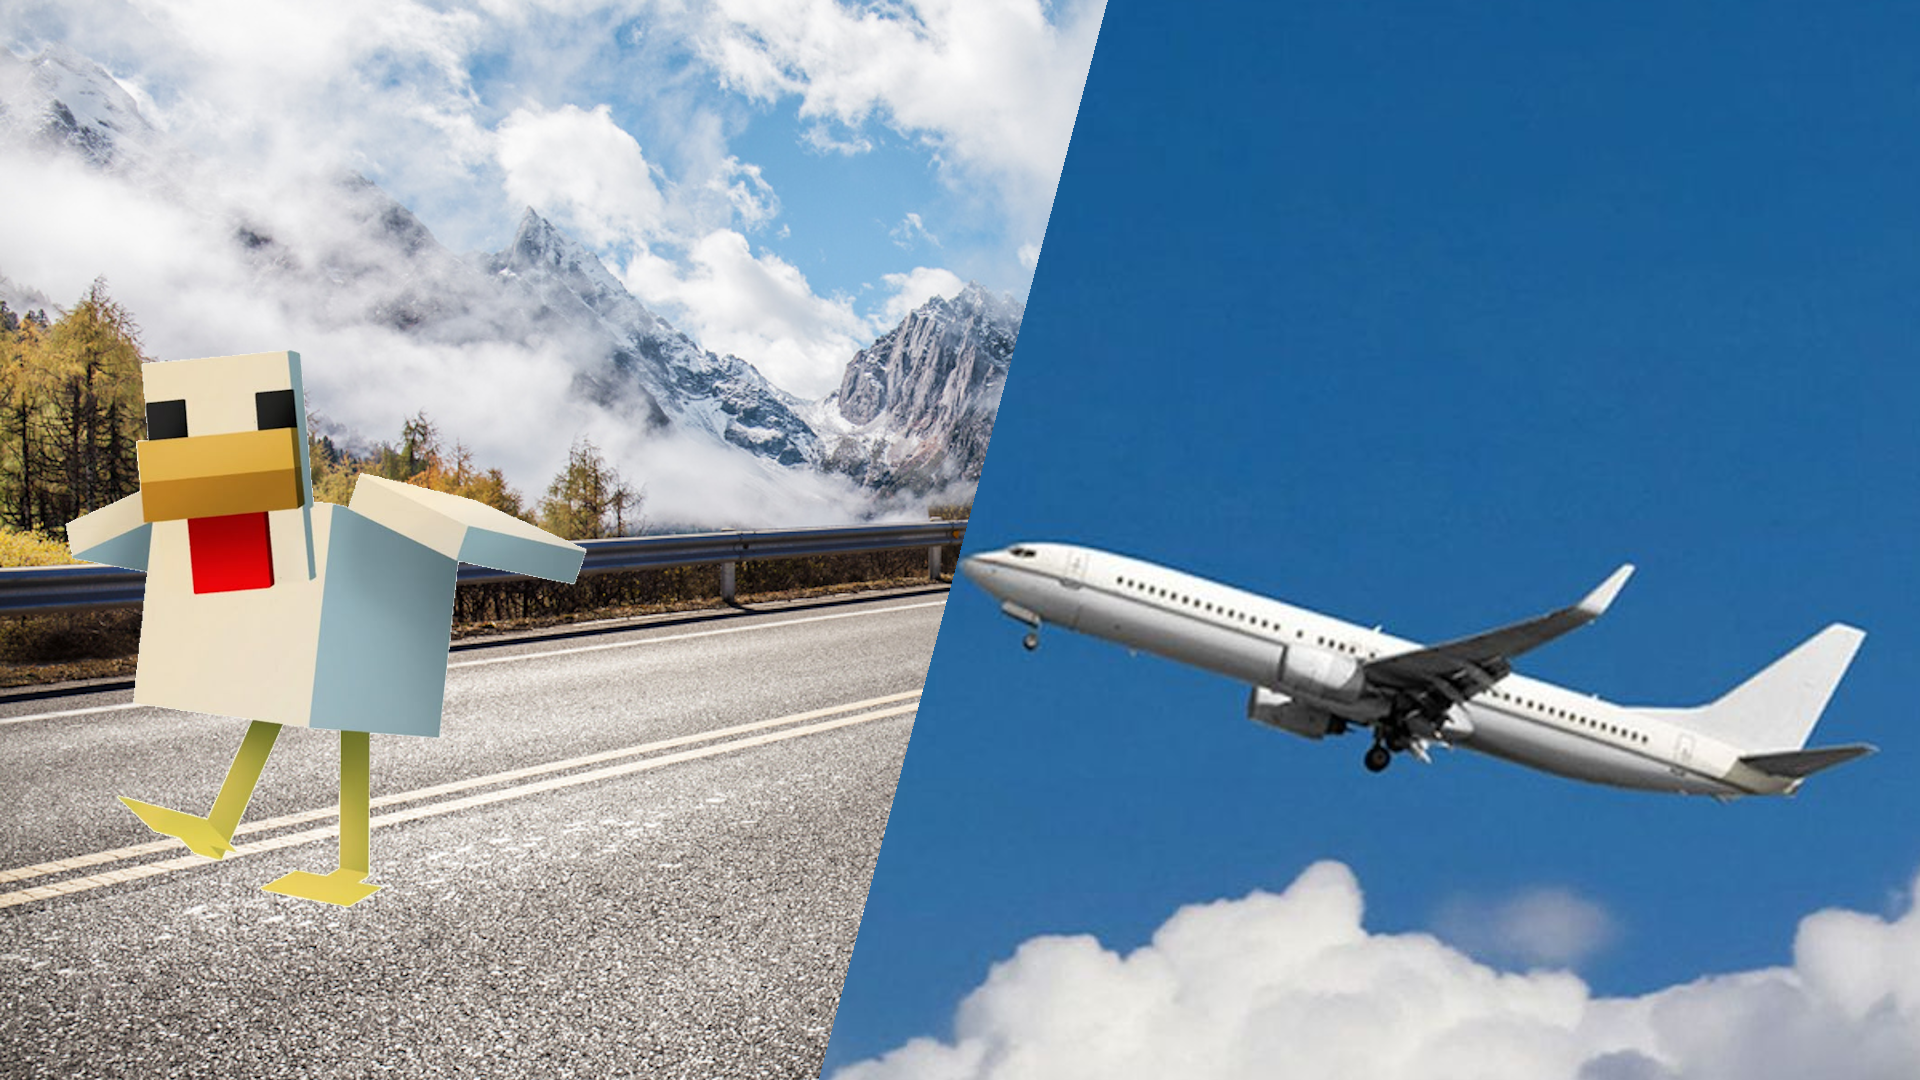
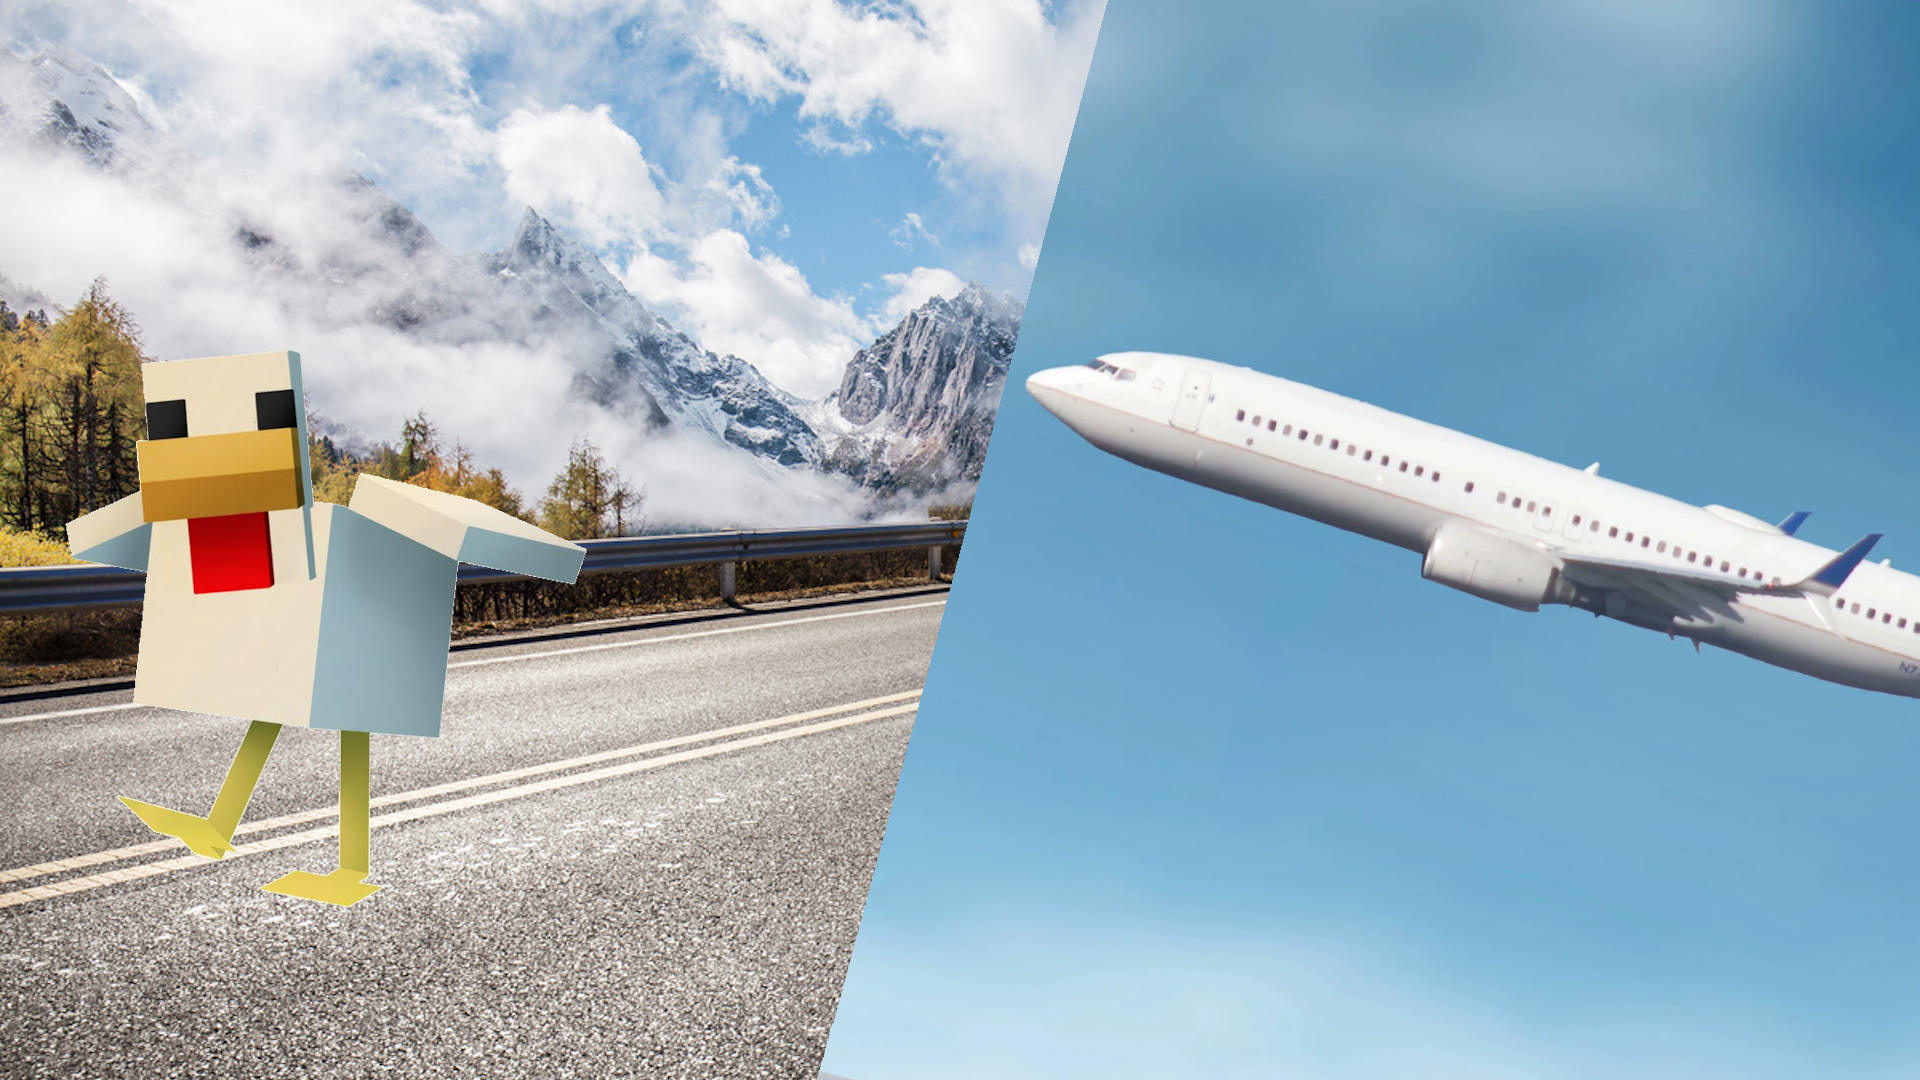
aviator+ kisebb javitasok a tobbiben

diff --git a/FrontEnd/Games/src/components/Aviator/Aviator.jsx b/FrontEnd/Games/src/components/Aviator/Aviator.jsx
@@ -1,124 +1,169 @@
 import React, { useState, useEffect } from 'react';
-import { Button, Box, Typography } from "@mui/material"
-import './Aviator.module.css';
 import Navbar from '../Navbar/Navbar';
-
 
 const Aviator = () => {
     const [multiplier, setMultiplier] = useState(1.00);
     const [isFlying, setIsFlying] = useState(false);
-    const [statusMessage, setStatusMessage] = useState("There is no active game!");
+    const [statusMessage, setStatusMessage] = useState("");
+    const [positions, setPositions] = useState([]);
+    const [isVisible, setIsVisible] = useState(true);
+    const [bet, setBet] = useState(10);
+    const [availableCredits, setAvailableCredits] = useState(1000); 
+    const [gameStarted, setGameStarted] = useState(false);
 
     useEffect(() => {
         let flightInterval;
         if (isFlying) {
-            setStatusMessage("Game started!");
+            setStatusMessage("We wish you a successful flight!");
+            let x = 0, y = 0, m = 1.0;
+            let startTime = Date.now(); 
+
             flightInterval = setInterval(() => {
-                setMultiplier(prev => {
-                    const newMultiplier = parseFloat((prev + 0.01).toFixed(2));
-                    return newMultiplier;
-                });
+                m = parseFloat((m * 1.01).toFixed(4));
+                let elapsedTime = Date.now() - startTime;
+                let t = elapsedTime / 1000; 
+                x = x * 1.00001 + 1; 
+                y = Math.max(0, 0.5 * Math.pow(t, 2)); 
+                setMultiplier(m);
+                setPositions((prev) => [...prev, { x, y }]);
+
+                if (y > 400) {
+                    clearInterval(flightInterval);
+                    setIsFlying(false);
+                    setGameStarted(false);
+                    setStatusMessage("You won!");
+                }
             }, 100);
 
-            const randomFlightDuration = Math.floor(Math.random() * (120000 - 1000 + 1)) + 1000;
-            console.log(randomFlightDuration)
+            const randomFlightDuration = Math.floor(Math.random() * (12000 - 0 + 1)) + 0;
 
             setTimeout(() => {
                 clearInterval(flightInterval);
                 setIsFlying(false);
-                setStatusMessage("The plane crashed!");
+                setGameStarted(false);
+                setStatusMessage("The plane crashed! You lost your bet.");
             }, randomFlightDuration);  
+        } else {
+            setPositions([]);
         }
+
         return () => clearInterval(flightInterval);
     }, [isFlying]);
 
     const placeBet = () => {
-        if (!isFlying) {
-            setIsFlying(true);
+        if (bet <= 0 || bet > availableCredits) {
+            setStatusMessage("Invalid bet amount!");
+            return;
         }
+
+        setAvailableCredits(prev => prev - bet);
+        setIsFlying(true);
+        setIsVisible(true);
+        setGameStarted(true);
     };
 
     const cashOut = () => {
         if (isFlying) {
+            const winnings =Math.floor(bet * multiplier) ;
+            setAvailableCredits(prev => prev + winnings);
             setIsFlying(false);
-            setStatusMessage(`Cash out: ${multiplier}x!`);
-            setMultiplier(1.00)
+            setGameStarted(false);
+            setStatusMessage(`Cashed out: ${multiplier.toFixed(2)}x, You won ${winnings.toFixed(2)} credits!`);
+            setMultiplier(1.00);
+            setPositions([]);
         } else {
             setStatusMessage("There is no active game!");
         }
     };
 
+    const pathData = positions.map((pos, index) => `${index === 0 ? 'M' : 'L'} ${pos.x} ${400 - pos.y}`).join(' ');
+    const rotation = Math.min(60, multiplier * 10);
+
     return (
         <>
             <Navbar />
-            <Box sx={{ textAlign: 'center', padding: 2 }}>
-                <Typography variant="h4" gutterBottom>Aviator Game</Typography>
-                <Box 
-                    className="flight-display" 
-                    sx={{ 
-                        margin: 2, 
-                        position: 'relative', 
-                        height: '300px', 
-                        border: '3px solid #007BFF', 
-                        borderRadius: '12px', 
-                        background: 'linear-gradient(to top, #87CEEB, #FFFFFF)' 
-                    }}
-                >
-                    <div 
-                        className="airplane" 
-                        style={{ 
-                            position: 'absolute', 
-                            bottom: isFlying ? `${multiplier * 10}px` : '0', 
-                            left: '50%', 
-                            transform: 'translateX(-50%)', 
-                            transition: 'bottom 0.1s linear' 
-                        }}
-                    >
-                        ✈
-                    </div>
-                    <Typography 
-                        variant="h6" 
-                        className="multiplier-display" 
-                        sx={{ 
-                            position: 'absolute', 
-                            top: 10, 
-                            left: '50%', 
-                            transform: 'translateX(-50%)', 
-                            fontWeight: 'bold', 
-                            color: '#333' 
-                        }}
-                    >
-                        Multiplier: <span>{multiplier}x</span>
-                    </Typography>
-                </Box>
-                <Box className="controls" sx={{ margin: 2 }}>
-                    <Button 
-                        variant="contained" 
-                        color="primary" 
-                        onClick={placeBet} 
+            <div className="min-h-screen flex flex-col items-center justify-center bg-aviatorbg font-['Press Start 2P'] text-white px-4">
+                <div className='flex flex-col items-center justify-center p-10 backdrop-blur-lg rounded-3xl'>
+                <div className="relative w-[300px] h-[400px] bg-aviatorgamebg bg-opacity-0 rounded-xl  overflow-hidden border-4 border-slate-800 mb-6">
+                    <svg className="absolute w-full h-full">
+                        <path 
+                            d={pathData} 
+                            stroke="red" 
+                            strokeWidth="3" 
+                            fill="transparent" 
+                        />
+                    </svg>
+
+                    {isVisible && (
+                        <div 
+                            className={`absolute transition-all duration-100 ${isFlying ? '' : 'animate-fall'}`}
+                            onAnimationEnd={() => setIsVisible(false)}
+                            style={{
+                                left: `${(positions[positions.length - 1]?.x) - rotation / 3}px`,
+                                bottom: `${positions[positions.length - 1]?.y}px`,
+                                transform: `rotate(-${rotation}deg)`, 
+                                transformOrigin: 'center',
+                            }}
+                        >   
+                            <img src="airplane.png" alt="✈" className='w-10 h-auto'/>
+                        </div>
+                    )}
+                </div>
+
+                <div className="flex flex-row sm:flex-row gap-4 mb-4 items-center">
+                    <button 
+                        onClick={placeBet}
                         disabled={isFlying}
-                        sx={{ marginRight: 1 }}
+                        className={`px-6 py-2 rounded-lg text-white font-semibold transition-transform duration-300 ${
+                            isFlying ? 'bg-gray-400 cursor-not-allowed' : 'bg-blue-600 hover:-translate-y-1 hover:bg-blue-800'
+                        }`}
                     >
                         Place Bet
-                    </Button>
-                    <Button 
-                        variant="contained" 
-                        color="secondary" 
-                        onClick={cashOut} 
+                    </button>
+
+                    <button 
+                        onClick={cashOut}
                         disabled={!isFlying}
-                        sx={{ marginLeft: 1 }}
+                        className={`px-6 py-2 rounded-lg text-white font-semibold transition-transform duration-300 ${
+                            !isFlying ? 'bg-gray-400 cursor-not-allowed' : 'bg-green-600 hover:-translate-y-1 hover:bg-green-800'
+                        }`}
                     >
                         Cash Out
-                    </Button>
-                </Box>
-                <Typography 
-                    variant="body1" 
-                    className="status" 
-                    sx={{ marginTop: 2, fontStyle: 'italic', color: '#555' }}
-                >
+                    </button>
+
+                    
+                </div>
+                <select
+                        value={bet}
+                        onChange={(e) => setBet(Number(e.target.value))}
+                        disabled={gameStarted}
+                        className="p-2 bg-white text-black rounded-lg shadow-md text-sm font-bold"
+                    >
+                        {[10, 20, 50, 100, 200, 500].map(amount => (
+                            <option key={amount} value={amount}>{amount} Credits</option>
+                        ))}
+                    </select>
+                <div className="text-xl sm:text-2xl font-bold text-white drop-shadow">
+                    Multiplier: <span>{multiplier.toFixed(2)}x</span>
+                </div>
+
+                <p className="italic text-sm sm:text-base text-gray-300 drop-shadow-sm text-center">
                     {statusMessage}
-                </Typography>
-            </Box>
+                </p>
+
+                <style>
+                {`
+                    @keyframes fall {
+                        from { transform: translateY(${positions[positions.length - 1]?.y}px); }
+                        to { transform: translateY(1000px); }
+                    }
+                    .animate-fall {
+                        animation: fall 0.4s linear forwards;
+                    }
+                `}
+                </style>
+                </div>
+            </div>
         </>
     );
 };

diff --git a/FrontEnd/Games/src/components/Navbar/Navbar.jsx b/FrontEnd/Games/src/components/Navbar/Navbar.jsx
@@ -1,9 +1,28 @@
-import React, { useState } from 'react';
+import React, { useState, useEffect } from 'react';
 import { useNavigate } from 'react-router-dom';
+import axios from 'axios';
 
 const Navbar = ({ children }) => {
   const navigate = useNavigate();
-  const [credits, setCredits] = useState(1000);
+  const [credits, setCredits] = useState(1000); 
+  const [loading, setLoading] = useState(true); 
+  const [error, setError] = useState(null); 
+
+  useEffect(() => {
+  
+    const fetchCredits = async () => {
+      try {
+        const response = await axios.get('http://localhost:1010/auth/wallet/balance');
+        setCredits(response.data.balance); 
+      } catch (error) {
+        setError(error.message);
+      } finally {
+        setLoading(false);
+      }
+    };
+
+    fetchCredits();
+  }, []); 
 
   const exit = () => {
     navigate('/');
@@ -14,25 +33,25 @@ const Navbar = ({ children }) => {
 
   return (
     <>
-    <div className="fixed top-0 left-0 right-0 flex justify-between items-center bg-gray-800 text-white p-4 z-10">
-      <button
-        onClick={exit}
-        className="absolute left-4 bg-red-500 text-white py-2 px-4 rounded-lg text-lg"
-      >
-        Exit
-      </button>
-      <img className="h-10 absolute left-1/3" src="logo.png" alt="" />
-      <div className="flex-1 text-center text-xl font-bold">
-        {pageName}
-      </div>
+      <div className="fixed top-0 left-0 right-0 flex justify-between items-center bg-gray-800 text-white p-4 z-10">
+        <button
+          onClick={exit}
+          className="absolute left-4 bg-red-500 text-white py-2 px-4 rounded-lg text-lg"
+        >
+          Exit
+        </button>
+        <img className="h-10 absolute left-1/3" src="logo.png" alt="" />
+        <div className="flex-1 text-center text-xl font-bold">
+          {pageName}
+        </div>
 
-      <div className="absolute right-4 text-lg">
-        Credits: {credits}
-      </div>
+        <div className="absolute right-4 text-lg">
+          {loading ? 'Loading...' : error ? `Error: ${error}` : `Credits: ${credits}`}
+        </div>
         {typeof children === 'function' 
           ? children({ credits, setCredits }) 
           : React.cloneElement(children || <div/>, { credits, setCredits })}
-    </div>
+      </div>
     </>
   );
 };

diff --git a/FrontEnd/Games/src/components/BlackJack/Blackjack.jsx b/FrontEnd/Games/src/components/BlackJack/Blackjack.jsx
@@ -26,7 +26,7 @@ const Blackjack = () => {
     const [dealerHand, setDealerHand] = useState([]);
     const [gameOver, setGameOver] = useState(false);
     const [message, setMessage] = useState('');
-    const [bet, setBet] = useState(0); 
+    const [bet, setBet] = useState(10); 
     const [fade, setFade] = useState(false);
     const [gameActive, setGameActive]=useState(false)
 
@@ -166,8 +166,8 @@ const Blackjack = () => {
 
     return (
         <> 
-            <Navbar></Navbar> 
-            <div className="flex flex-col items-center justify-center w-screen min-h-screen bg-blackjackbg mt-16">
+            <Navbar/>
+            <div className="flex flex-col items-center justify-center w-screen h-screen bg-blackjackbg bg-cover">
                 <div className="flex flex-wrap justify-center space-x-4 mb-4 w-full max-w-5xl px-4">
                     <div className="dealer-box p-4 border-2 border-gray-700 bg-green-950 rounded-xl shadow-lg w-full md:w-1/2 lg:w-1/3">
                         <h2 className="text-xl text-center text-white">Dealer's Hand:</h2>
@@ -235,7 +235,7 @@ const Blackjack = () => {
                             onChange={(e) => setBet(Number(e.target.value))}
                             className="w-full p-2 bg-white text-black rounded-lg shadow-md"
                         >
-                            {['', 10, 20, 50, 100].map((amount) => (
+                            {[10, 20, 50, 100].map((amount) => (
                                 <option key={amount} value={amount}>
                                     {amount} Credits
                                 </option>

diff --git a/FrontEnd/Games/src/components/Slot/Slot.jsx b/FrontEnd/Games/src/components/Slot/Slot.jsx
@@ -99,7 +99,7 @@ const SlotMachine = () => {
                 key={index} 
                 className={`w-full h-[120px] rounded-xl flex items-center justify-center text-[60px] ${
                   winningPositions[index] 
-                    ? 'bg-green-500/30 border-3 border-green-500 animate-pulse' 
+                    ? 'bg-green-500/70 border-3 border-green-500 animate-pulse' 
                     : ''
                 }`}
               >

diff --git a/FrontEnd/Games/tailwind.config.js b/FrontEnd/Games/tailwind.config.js
@@ -15,7 +15,8 @@ module.exports = {
         "chickencover":"url(./components/assets/chickencover.png)",
         "aviatorcover":"url(./components/assets/aviatorcover.png)",
         "bank":"url(./components/assets/bankbg.png)",
-
+        "aviatorgamebg":"url(./components/assets/aviatorgamebg.png)",
+        "aviatorbg":"url(./components/assets/aviatorbg.png)",
       },
       
       

diff --git a/FrontEnd/Games/public/index.html b/FrontEnd/Games/public/index.html
@@ -3,6 +3,7 @@
   <head>
     <meta charset="utf-8" />
     <link rel="icon" href="%PUBLIC_URL%/favicon.ico" />
+    <link href="https://fonts.googleapis.com/css2?family=Press+Start+2P&display=swap" rel="stylesheet">
     <meta name="viewport" content="width=device-width, initial-scale=1" />
     <meta name="theme-color" content="#000000" />
     <meta
